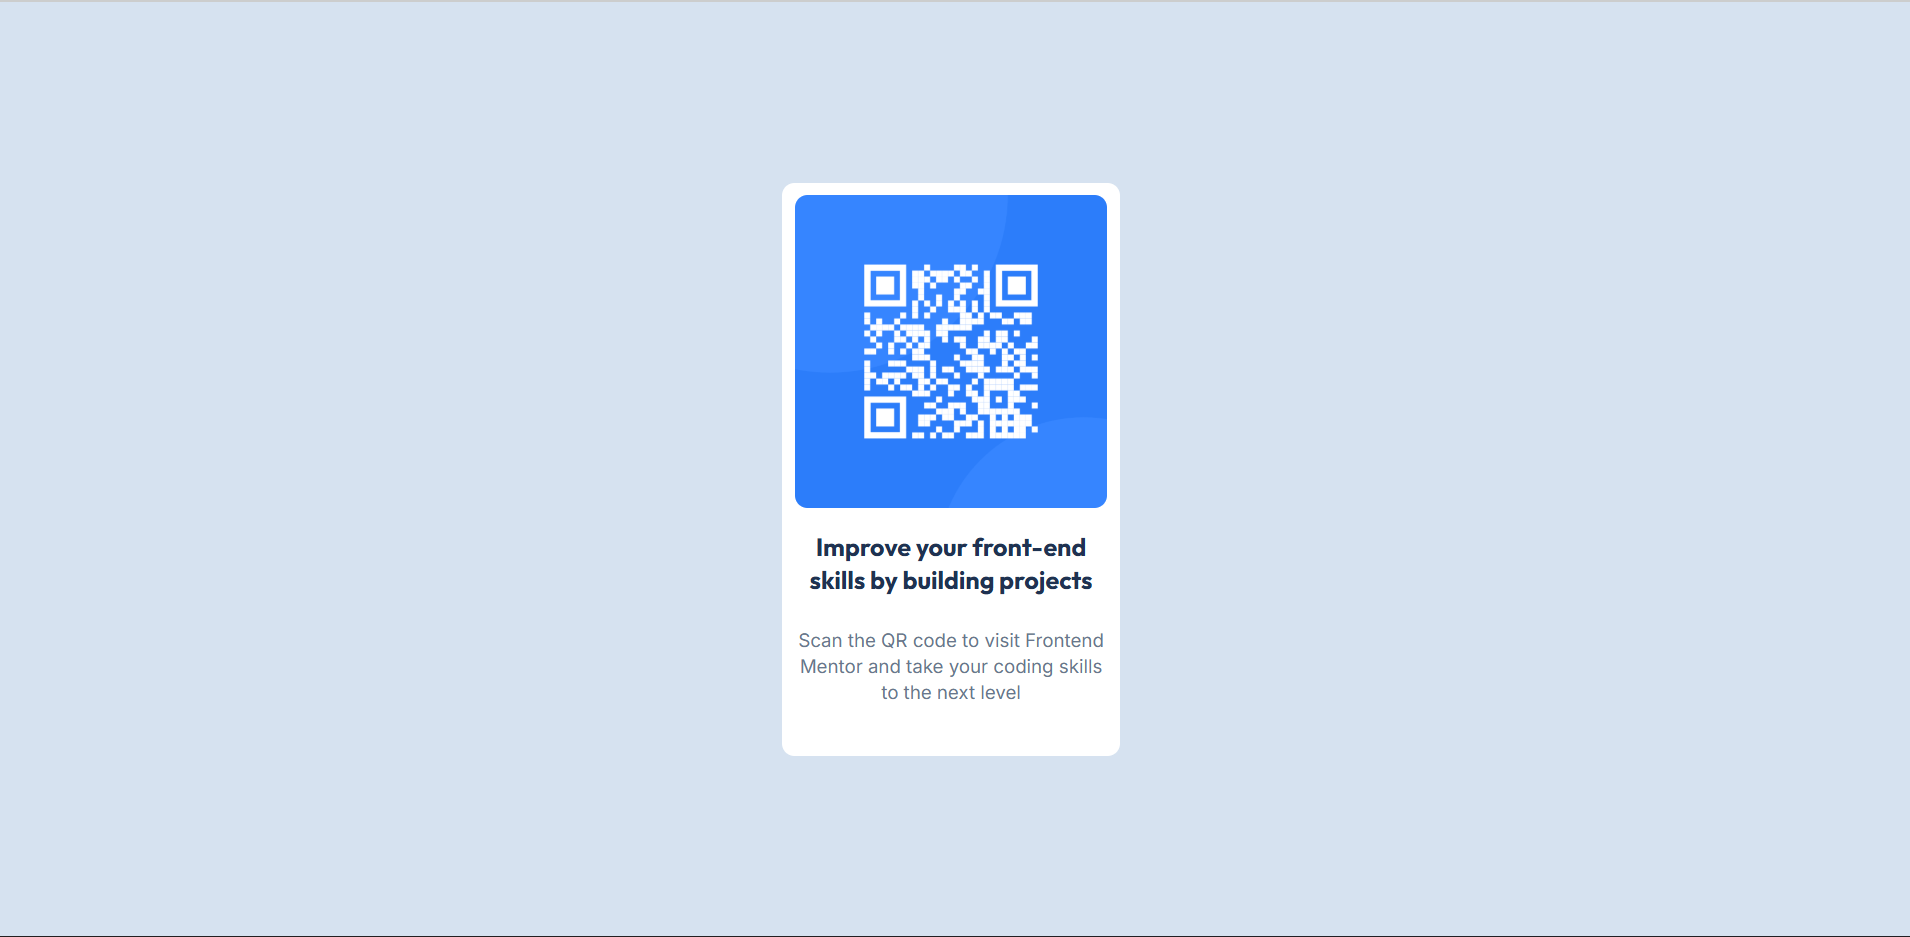
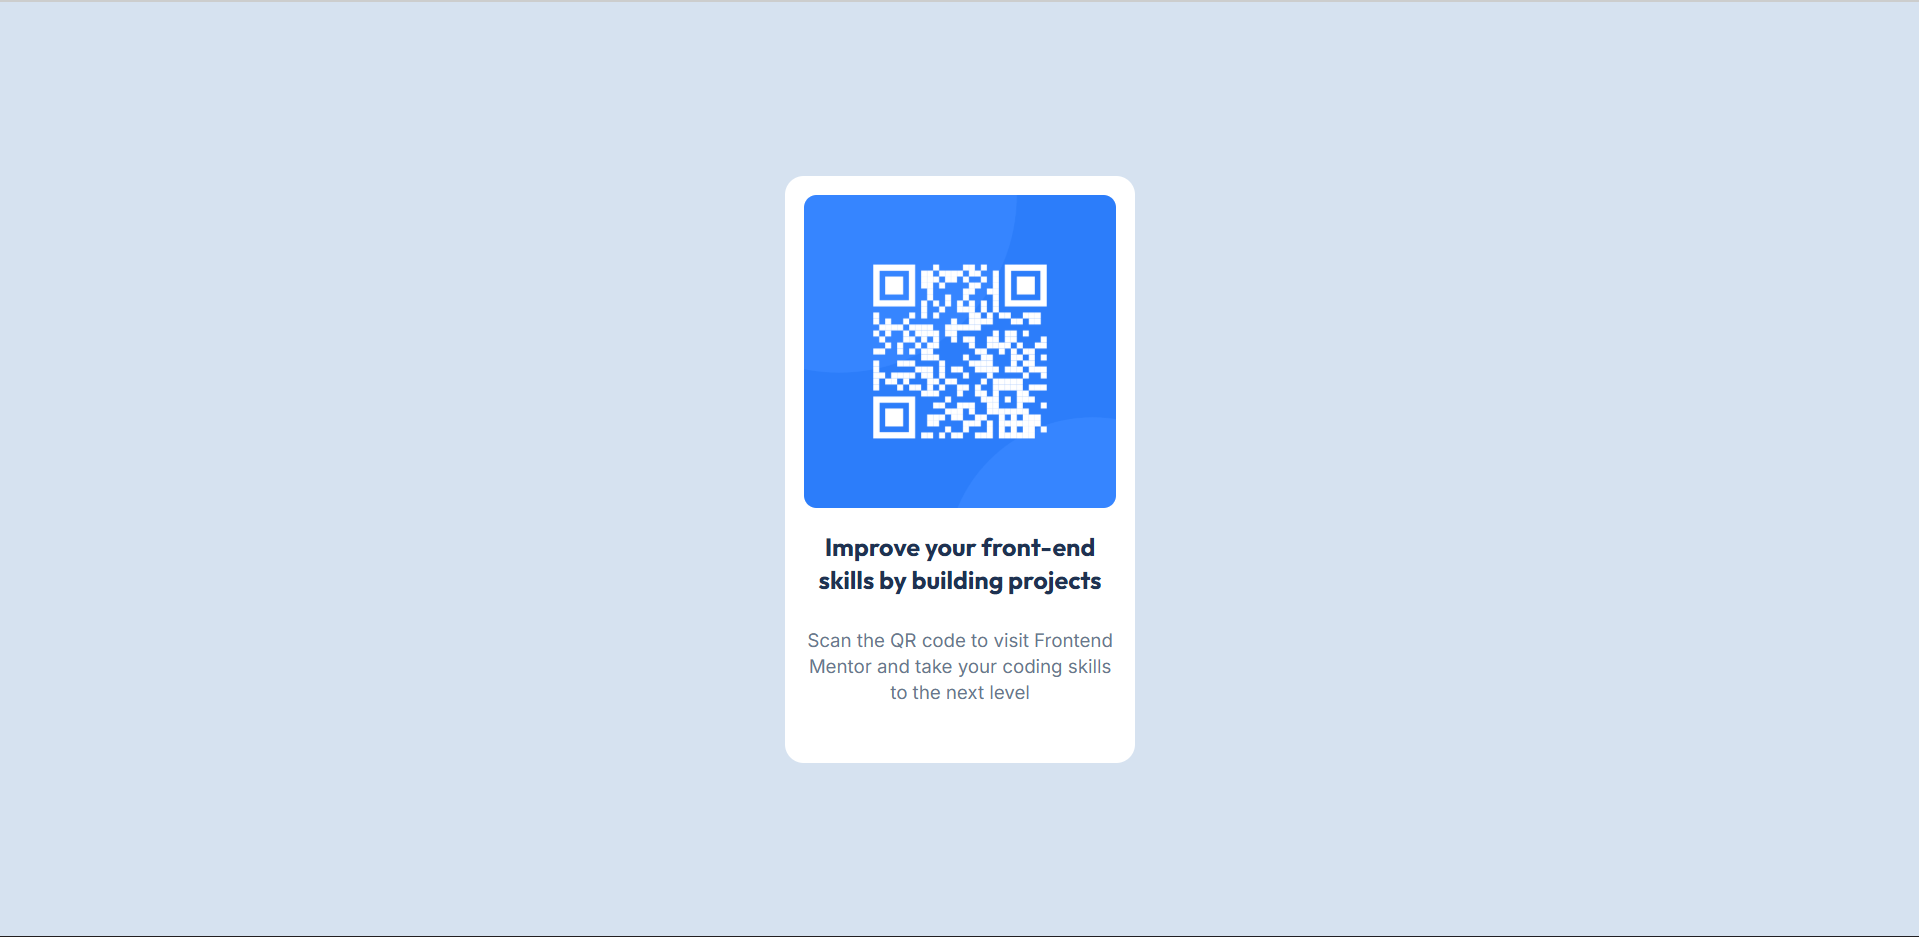
improved design

Changed region(s): [[0.4016, 0.2166, 0.6178, 0.8047], [0.4016, 0.1857, 0.5869, 0.5261], [0.4016, 0.8047, 0.5869, 0.8356]]

diff --git a/qr-code-components/index.html b/qr-code-components/index.html
@@ -14,12 +14,12 @@
   
 </head>
 <body>
-  <div id="container">
+  <main id="container">
     <div class="image">
       <img src="images/image-qr-code.png" alt="qr code">
     </div>
-    <div class="heading outfit-heading">Improve your front-end skills by building projects</div>
-    <div class="subheading inter-body">Scan the QR code to visit Frontend Mentor and take your coding skills to the next level</div>
-  </div>
+    <h1 class="heading outfit-heading">Improve your front-end skills by building projects</h1>
+    <p class="subheading inter-body">Scan the QR code to visit Frontend Mentor and take your coding skills to the next level</p>
+  </main>
 </body>
 </html>

diff --git a/qr-code-components/style.css b/qr-code-components/style.css
@@ -42,9 +42,11 @@
         align-items: center;
         text-align: center;
         background-color: hsl(0,0%, 100%);
-        border-radius: 10px;
-        padding: 10px 10px 10px 10px;
+        border-radius: 15px;
+        padding: 15px 15px 15px 15px;
         box-sizing: border-box;
+        min-height: 375px;
+        margin: 10px;
     }
 
     .heading{
